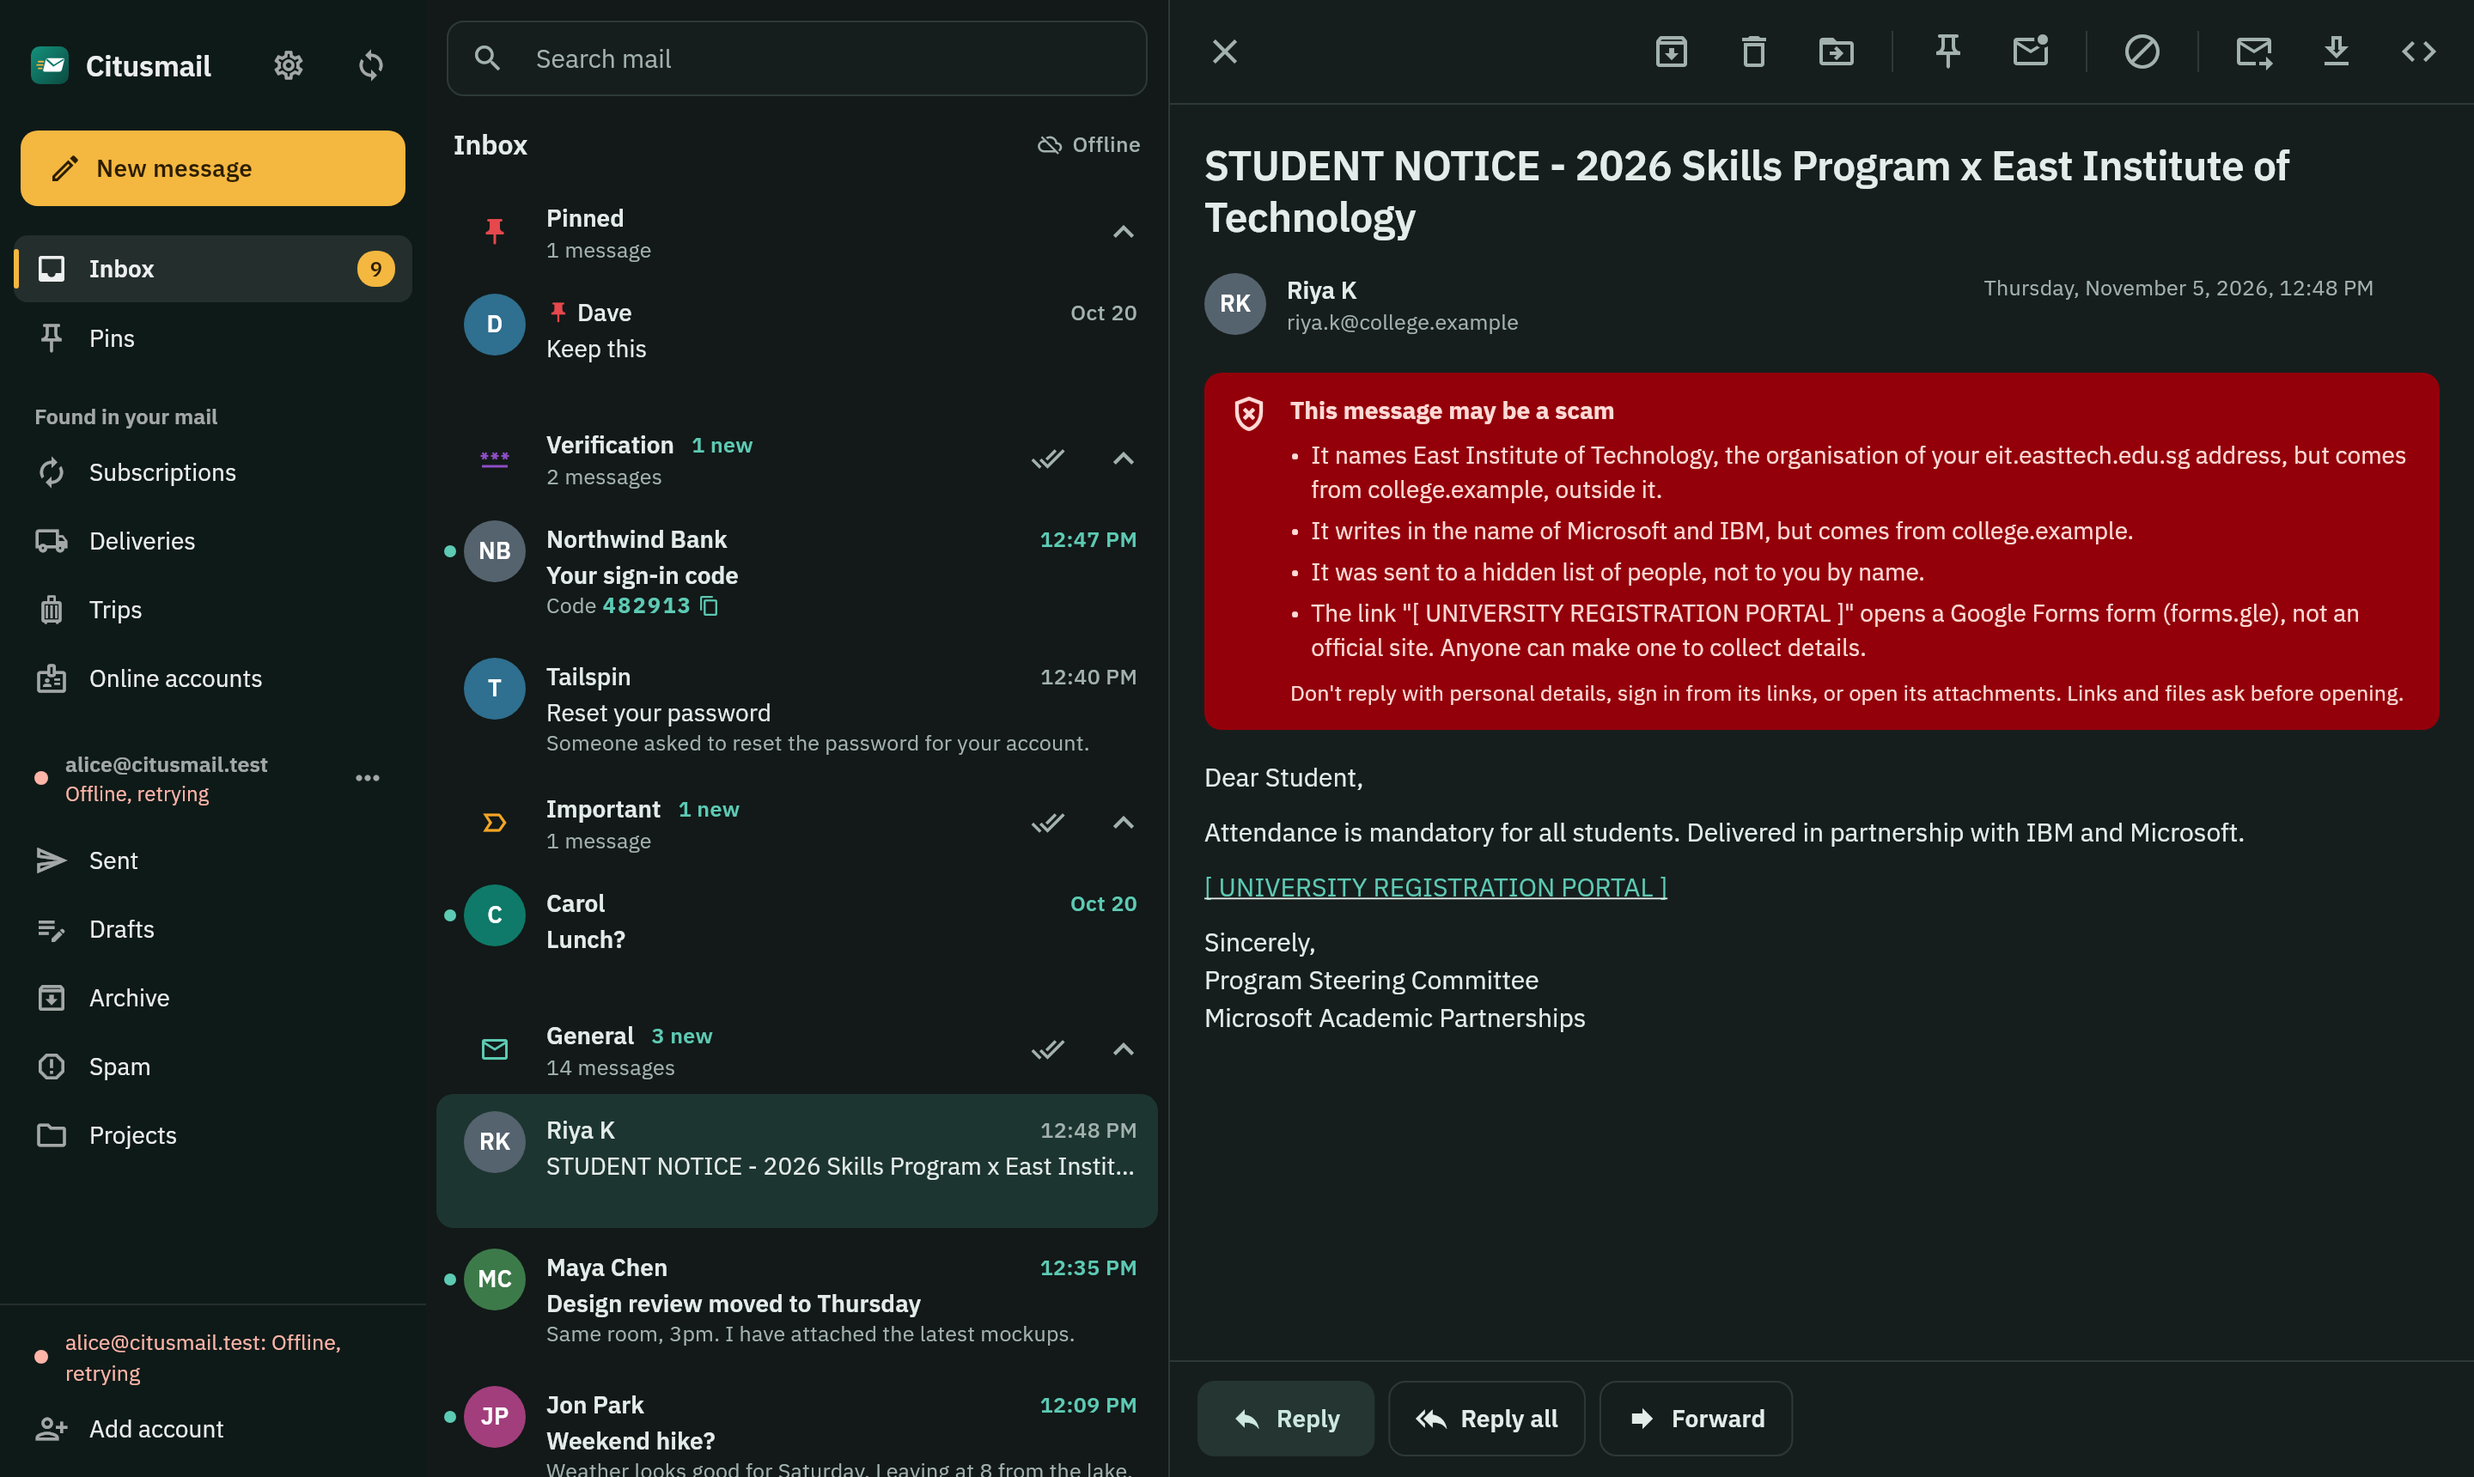
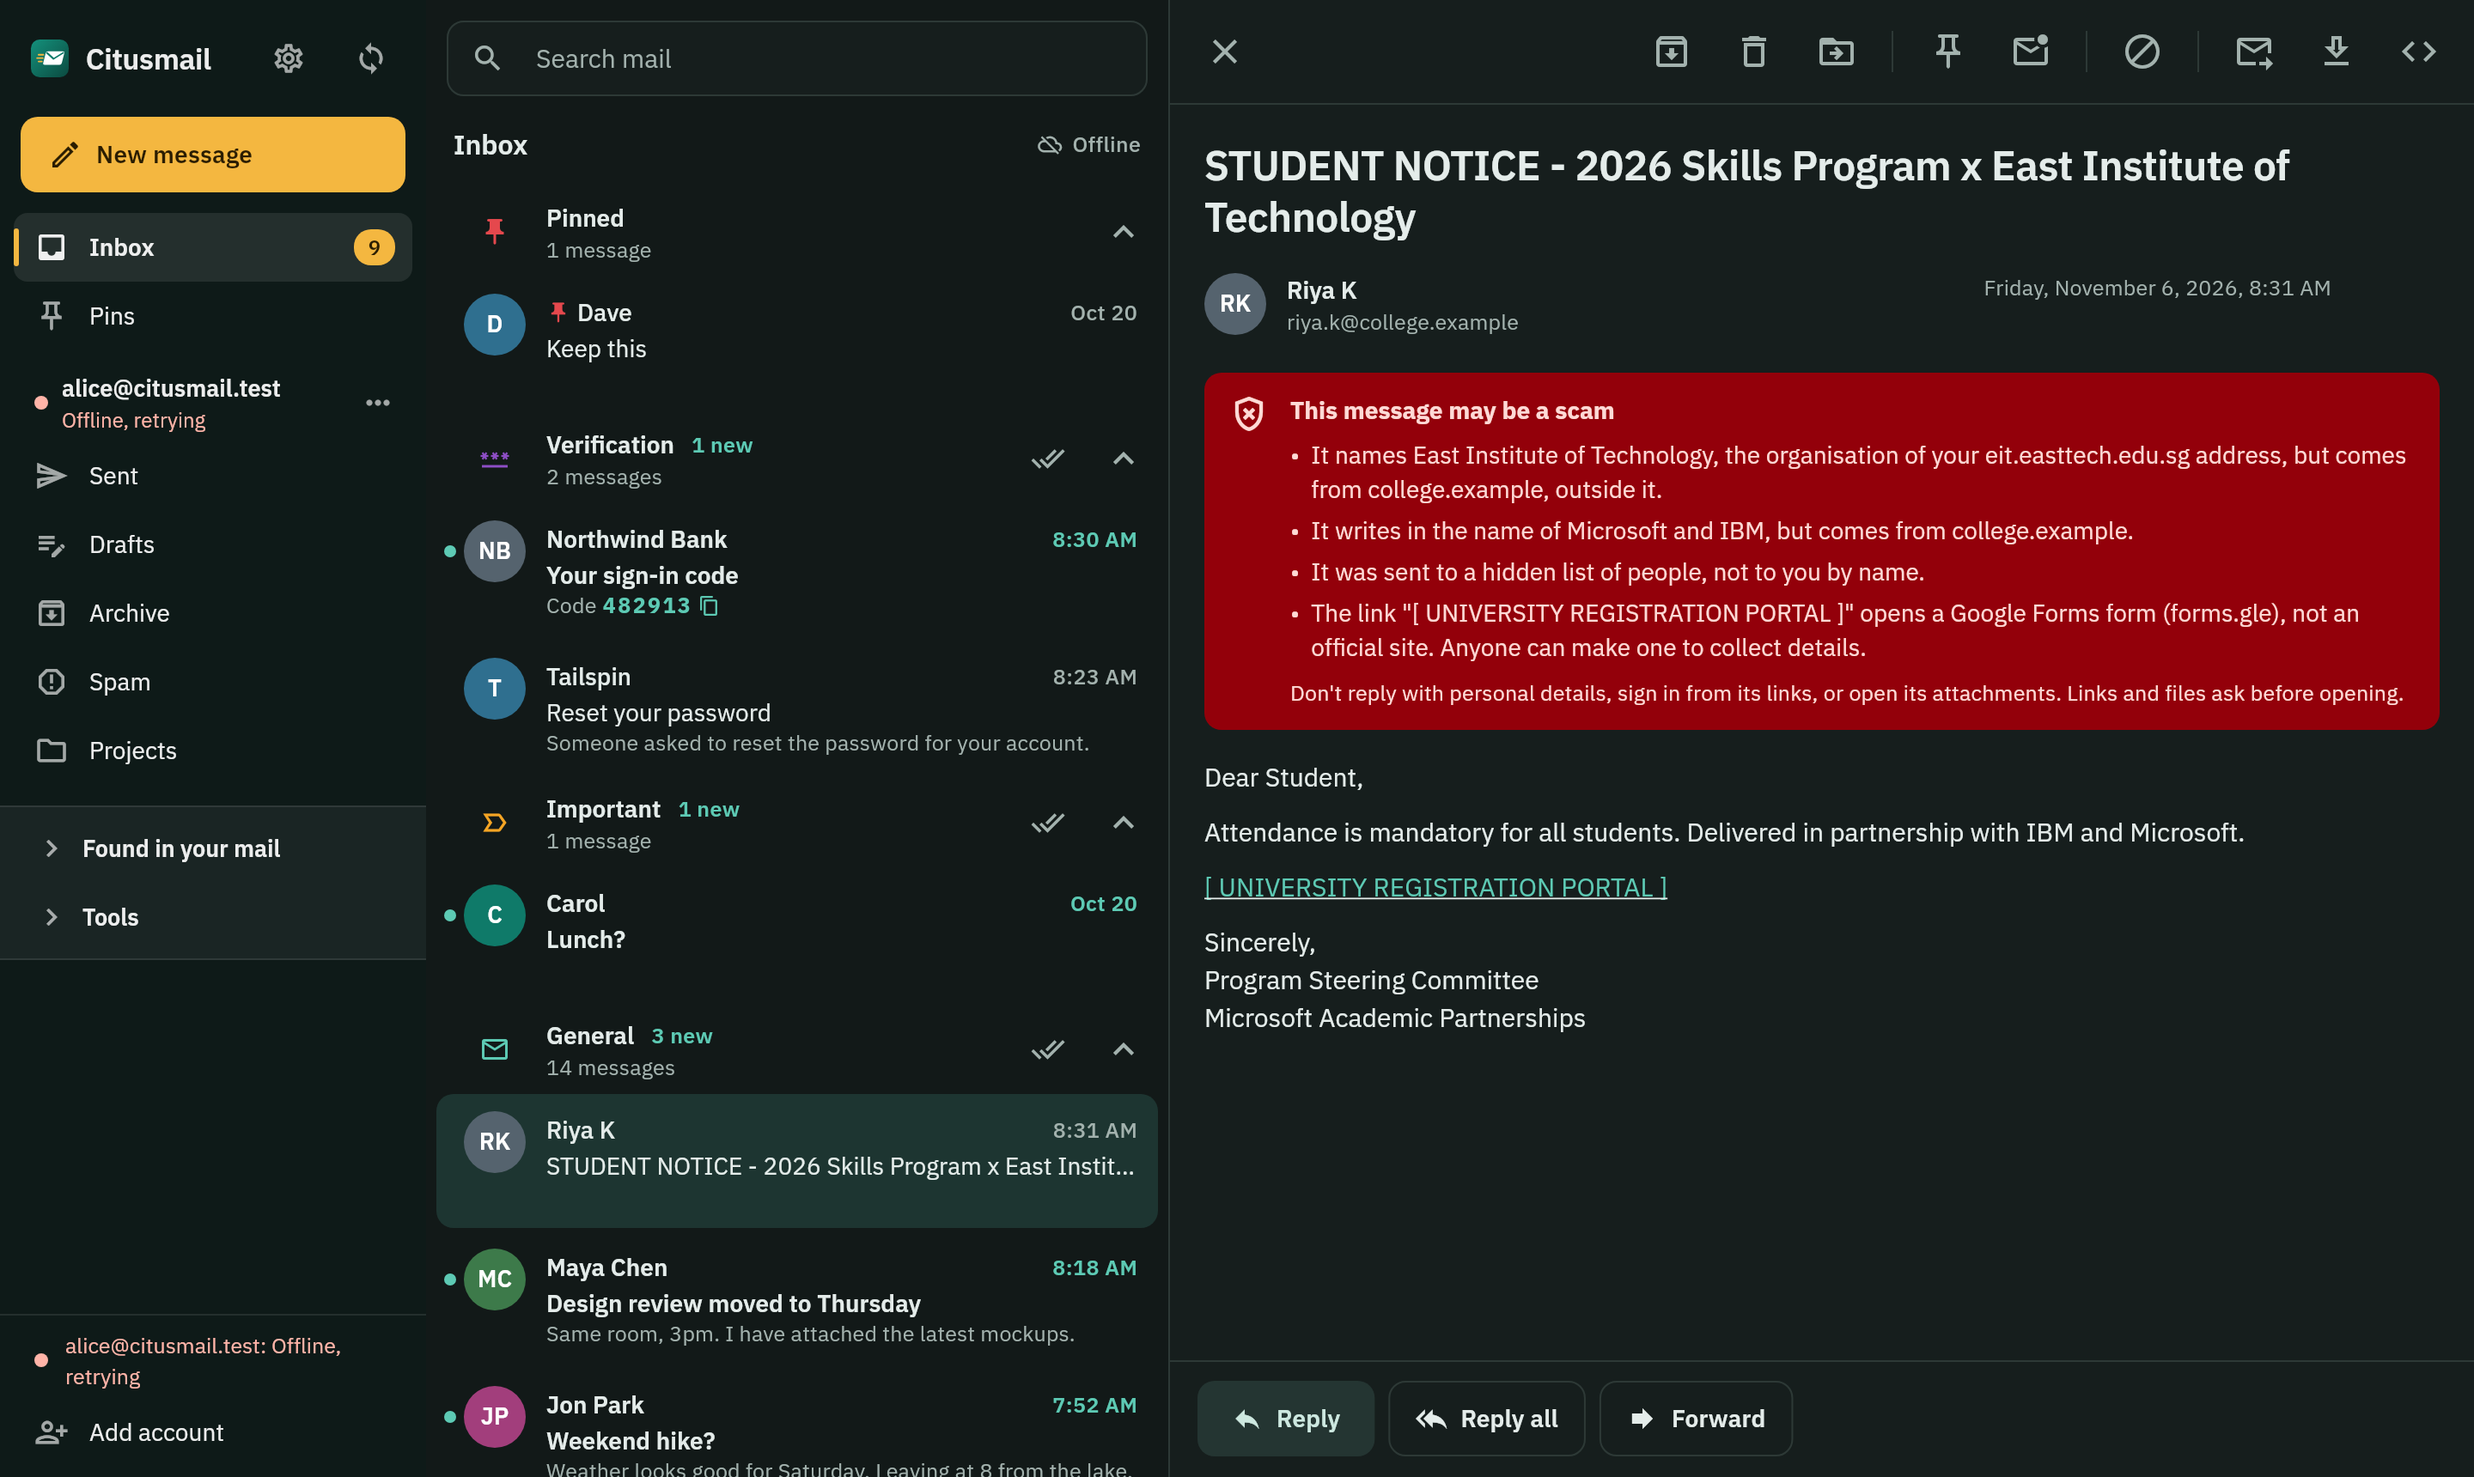
Screenshots: the new sidebar, and the README screens it changes
A "sidebar accounts" scene renders two accounts, folded with their
counts and then open with both feature groups, on desktop (light and
dark) and in the phone drawer.

The README's desktop and phishing screens show the new sidebar, and the
phone settings screen now starts with Notifications. With one account
the address gets a little room below Pins, where several accounts have
their "Accounts" heading.

Claude-Session: https://claude.ai/code/session_014i6HAP1iNv3q6sAUqpys6p

diff --git a/app/screenshots/screens_test.dart b/app/screenshots/screens_test.dart
@@ -473,6 +473,35 @@ void main() {
     });
   }
 
+  // The sidebar with two accounts: folded, with their unread counts;
+  // then one account and both feature groups open; the phone drawer.
+  for (final dark in [false, true]) {
+    final suffix = dark ? '_dark' : '';
+    testWidgets('sidebar accounts$suffix', (tester) async {
+      _seedSecondAccount(app.store);
+      Finder fold(String label) => find.byWidgetPredicate(
+        (w) => w is Semantics && w.properties.label == label,
+      );
+      await show(tester, shell(), size: const Size(1440, 900), dark: dark);
+      await shoot(tester, 'desktop_sidebar_folded$suffix');
+      for (final label in [
+        'Show folders of alice@citusmail.test',
+        'Show Found in your mail',
+        'Show Tools',
+      ]) {
+        await tester.tap(fold(label));
+        await tester.pumpAndSettle();
+      }
+      await tester.tap(find.text('Projects'));
+      await shoot(tester, 'desktop_sidebar_open$suffix');
+
+      await show(tester, shell(), size: const Size(390, 844), dark: dark);
+      await tester.tap(find.byTooltip('Folders'));
+      await tester.pumpAndSettle();
+      await shoot(tester, 'phone_drawer$suffix');
+    });
+  }
+
   // Meeting invitations (samples in test-data/invites).
   testWidgets('invitation', (tester) async {
     app.seedFixture(
@@ -1177,6 +1206,54 @@ void _seedSenders(MailStore store) {
             if (unsub) 'list-unsubscribe': ['<https://$domain/unsubscribe>'],
           },
         ),
+  ]);
+}
+
+/// A second account with a long address and some unread mail.
+void _seedSecondAccount(MailStore store) {
+  final account = store.accounts.add(
+    NewAccount(
+      email: 'robert.household-accounts@citusmail.test',
+      username: 'robert.household-accounts@citusmail.test',
+      imap: ServerSettings(
+        host: 'mail.citusmail.test',
+        port: 993,
+        security: ConnectionSecurity.implicitTls,
+      ),
+      smtp: ServerSettings(
+        host: 'mail.citusmail.test',
+        port: 465,
+        security: ConnectionSecurity.implicitTls,
+      ),
+    ),
+  );
+  final boxes = store.mailboxes.replaceAll(account.id, [
+    ImapMailboxInfo(encodedName: 'INBOX', delimiter: '/', attributes: const {}),
+    ImapMailboxInfo(
+      encodedName: 'Sent',
+      delimiter: '/',
+      attributes: const {r'\Sent'},
+    ),
+    ImapMailboxInfo(
+      encodedName: 'Trash',
+      delimiter: '/',
+      attributes: const {r'\Trash'},
+    ),
+  ]);
+  final inbox = boxes.firstWhere((b) => b.isInbox);
+  final now = DateTime.now().toUtc();
+  store.messages.upsertSummaries(inbox.id, [
+    for (var i = 0; i < 33; i++)
+      MessageSummary(
+        uid: 900 + i,
+        receivedAt: now.subtract(Duration(hours: 3 + i * 7)),
+        subject: 'Household note ${i + 1}',
+        from: MailAddress(
+          localPart: 'school',
+          domain: 'district.example',
+          displayName: 'School District',
+        ),
+      ),
   ]);
 }
 

diff --git a/app/lib/src/ui/sidebar.dart b/app/lib/src/ui/sidebar.dart
@@ -227,7 +227,10 @@ final class Sidebar extends StatelessWidget {
                               selected: here == const FollowUpsLocation(),
                               onTap: () => go(const FollowUpsLocation()),
                             ),
-                          if (several) const _SectionHeading('Accounts'),
+                          if (several)
+                            const _SectionHeading('Accounts')
+                          else
+                            const SizedBox(height: 8),
                           // One block per account: its inbox and folders.
                           // With several accounts each one folds away
                           // (remembered), showing its unread count.
